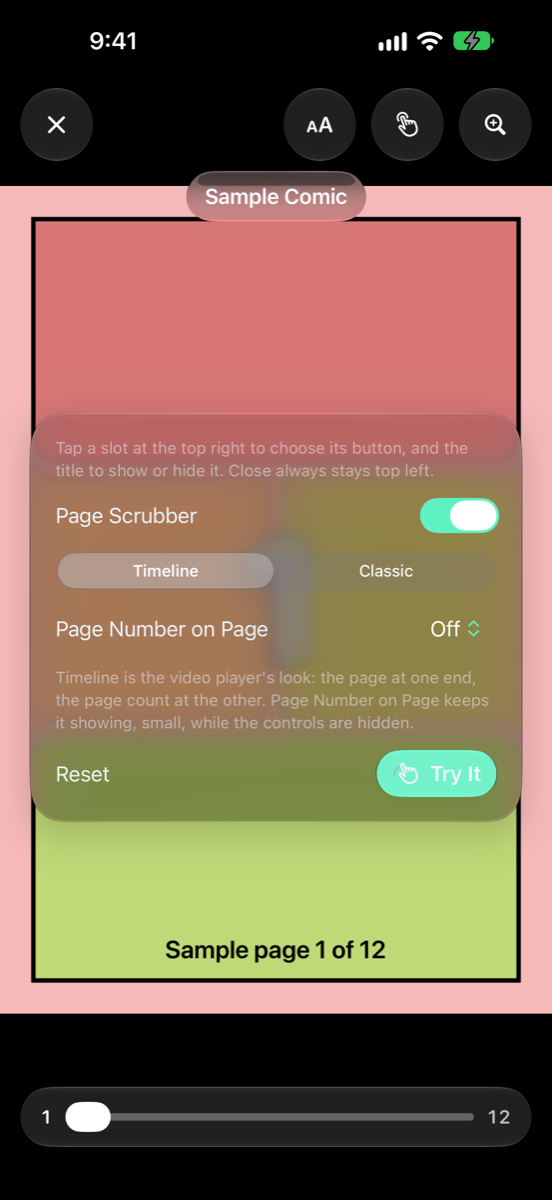
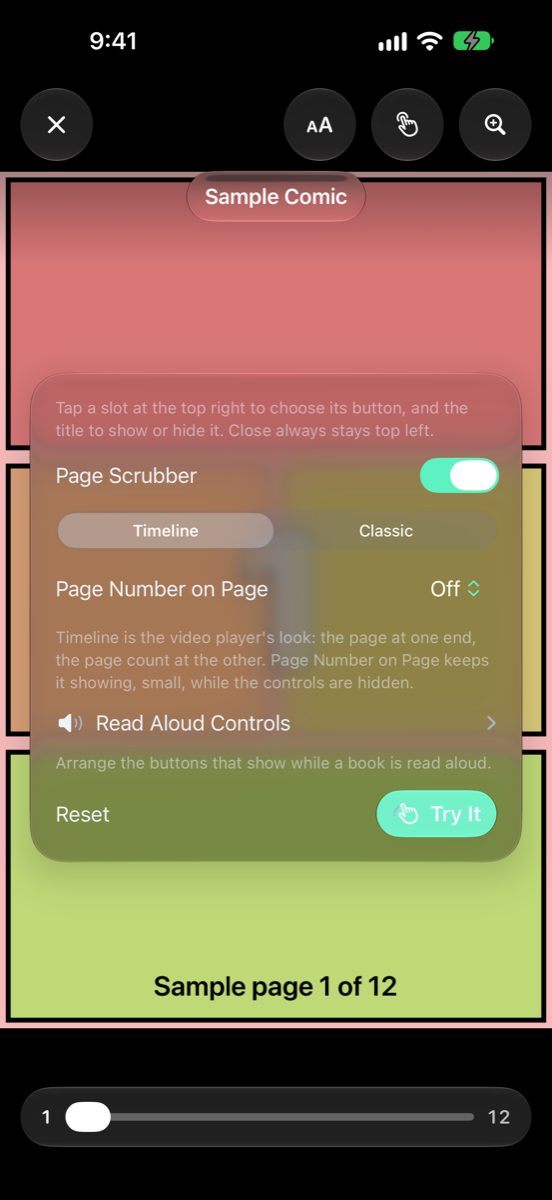
Publish the guide (from fa395d8d)

Changed region(s): [[0.0, 0.1233, 1.0, 0.8633], [0.6467, 0.4317, 0.7391, 0.4933]]

diff --git a/Reader.md b/Reader.md
@@ -145,7 +145,7 @@ An EPUB's text reflows to fit your screen. Its controls are a little different:
   - **Text Size**, **Font** (the book's own, or one of several, including OpenDyslexic), **Margins**, **Columns** (**Automatic**, **One Column** or **Two Columns**), **Line Spacing**, **Paragraph Spacing**, **Justify** and **Hyphenation**.
   - **Book's Layout** keeps the layout the book was made with.
   - **Turn Style**: **Slide**, **Curl**, **Instant** or **Vertical Scroll**.
-- **Read Aloud** (the speaker) reads the book to you from the page you're on, and tap it again to stop. While it reads, a row of buttons like the video player's sits at the bottom: **Previous Chapter**, **Previous Sentence**, a large **Pause** in the middle, **Next Sentence** and **Next Chapter**. The sleep timer (the moon) and the speed sit either side of the scrubber. **Previous Chapter** goes back to the start of the chapter, or to the one before if you're right at its start. Whether it turns pages for you is in Settings → Reading → **Turning Pages**.
+- **Read Aloud** (the speaker) reads the book to you from the page you're on, and tap it again to stop. While it reads, a row of buttons like the video player's sits at the bottom: **Previous Chapter**, **Previous Sentence**, a large **Pause** in the middle, **Next Sentence** and **Next Chapter**. The sleep timer (the moon) and the speed sit either side of the scrubber. **Previous Chapter** goes back to the start of the chapter, or to the one before if you're right at its start. Whether it turns pages for you is in Settings → Reading → **Turning Pages**. You can [choose which buttons these are](#choose-the-read-aloud-buttons).
 
 The scrubber moves through the book by position. With **Shade Behind Controls** on, the dark shade sits behind the buttons, the Read Aloud controls and the scrubber here too, and they turn light so they stand out on a white page. Tap zones, keys and page turners work as they do for comics. As with comics, what you change in **Aa** is for this book only; **Aa** also has this book's Read Aloud speed and highlight.
 
@@ -188,9 +188,24 @@ Settings → **Reader Controls** opens the real reader, with a sample comic, so 
 1. Tap a slot at the top right and choose a button for it: **Reading Options**, **Show Tap Zones**, **Next Book**, **Previous Page**, **Next Page**, **Auto Turn**, **Zoom** or **Read Aloud**. **None** leaves it empty.
 2. Tap the title to show or hide it. **Close** always stays at the top left.
 3. In the card in the middle, turn **Page Scrubber** on or off, pick the **Scrubber Style** (**Timeline** or **Classic**) and choose where **Page Number on Page** goes: **Off**, **Top**, **Bottom**, **Top Corner** or **Bottom Corner**.
-4. Tap **Try It** to put the card away and read the sample with your controls, tap zones and swipes. **Edit Controls** brings it back. **Reset** goes back to the original layout.
+4. Tap **Read Aloud Controls** in the card to [choose the buttons for reading aloud](#choose-the-read-aloud-buttons).
+5. Tap **Try It** to put the card away and read the sample with your controls, tap zones and swipes. **Edit Controls** brings it back. **Reset** goes back to the original layout.
 
 Your layout is saved in your Reading Profiles.
+
+### Choose the Read Aloud buttons
+
+**Read Aloud Controls** shows a page being read aloud, with the controls where the reader puts them: a row of five buttons, over a timeline with a button at each end. You can also find it by searching Settings for "read aloud controls".
+
+<div class="shot" markdown="0">
+<div class="shot-variant shot-iphone-18-pro-max"><img src="images/iphone-18-pro-max/read-aloud-controls-editor.png" alt="The Read Aloud Controls editor on an iPhone 18 Pro Max: a page of text with one sentence highlighted, the five buttons of the row under it and the timeline below with a button at each end, on an iPhone 18 Pro Max" loading="lazy"><div class="shot-label">iPhone 18 Pro Max</div></div>
+</div>
+
+1. Tap any of the five slots in the row, or either end of the timeline. Choose **Play/Pause**, **Previous Sentence**, **Next Sentence**, **Back 10 Seconds**, **Forward 10 Seconds**, **Previous Chapter**, **Next Chapter**, **Sleep Timer**, **Speed** or **Stop Reading Aloud**. **None** leaves the slot empty, shown as a dashed circle.
+2. A button sits in one slot. Choose one that's already somewhere else and it moves.
+3. Tap **Reset** to go back to the usual row: a chapter back, a sentence back, Play/Pause, a sentence on and a chapter on, with the sleep timer and speed at the timeline's ends. Tap **Done**, or pull the page down, to close.
+
+Reading aloud, the reader follows what you chose. Empty slots close up. **Back 10 Seconds**, **Forward 10 Seconds** and the timeline are for books with their own narration, so they're left out when the iPhone's voice reads. If you leave **Play/Pause** out, the reader adds one in the middle, as there'd be no other way to pause. **Stop Reading Aloud** is the speaker at the top; put it in a slot as well if you want it in the row.
 
 ## Where you left off
 

diff --git a/Settings.md b/Settings.md
@@ -76,7 +76,7 @@ The last group changes Settings itself.
 Three rows lay out the buttons of the player, the reader and the picture viewer. Each opens full screen, on a sample, so you see every change as you make it.
 
 - **Media Controls** lays out the video player's buttons, title and timeline. With an iPhone Duo bent open, it lays out the large controls instead. See [Lay the controls out your way](Video-Player.html#lay-the-controls-out-your-way).
-- **Reader Controls** lays out a book's buttons, title, scrubber and page number, on a sample comic. See [Lay the controls out your way](Reader.html#lay-the-controls-out-your-way).
+- **Reader Controls** lays out a book's buttons, title, scrubber and page number, on a sample comic. Its card also opens **Read Aloud Controls**, which arranges the buttons shown while a book is read aloud. See [Lay the controls out your way](Reader.html#lay-the-controls-out-your-way).
 - **Tap Zones** sets which parts of a page turn it when you tap: a preset (**Sides**, **Kindle**, **Edges Only**, **One-Handed (Right)**, **One-Handed (Left)**, **Forward Anywhere**, **Off** or **Custom**), or nine zones of your own in **Custom Zones**. **Follow Reading Direction** swaps the sides in a right-to-left book. With Show Advanced Settings on, it also has **Show Zones After a Change** and **Hold to Flip**. See [Tap zones](Reader.html#tap-zones).
 - **Image Viewer Controls** lays out the picture viewer's buttons, title and filmstrip or timeline. See [Lay the controls out your way](Image-Viewer.html#lay-the-controls-out-your-way).
 
